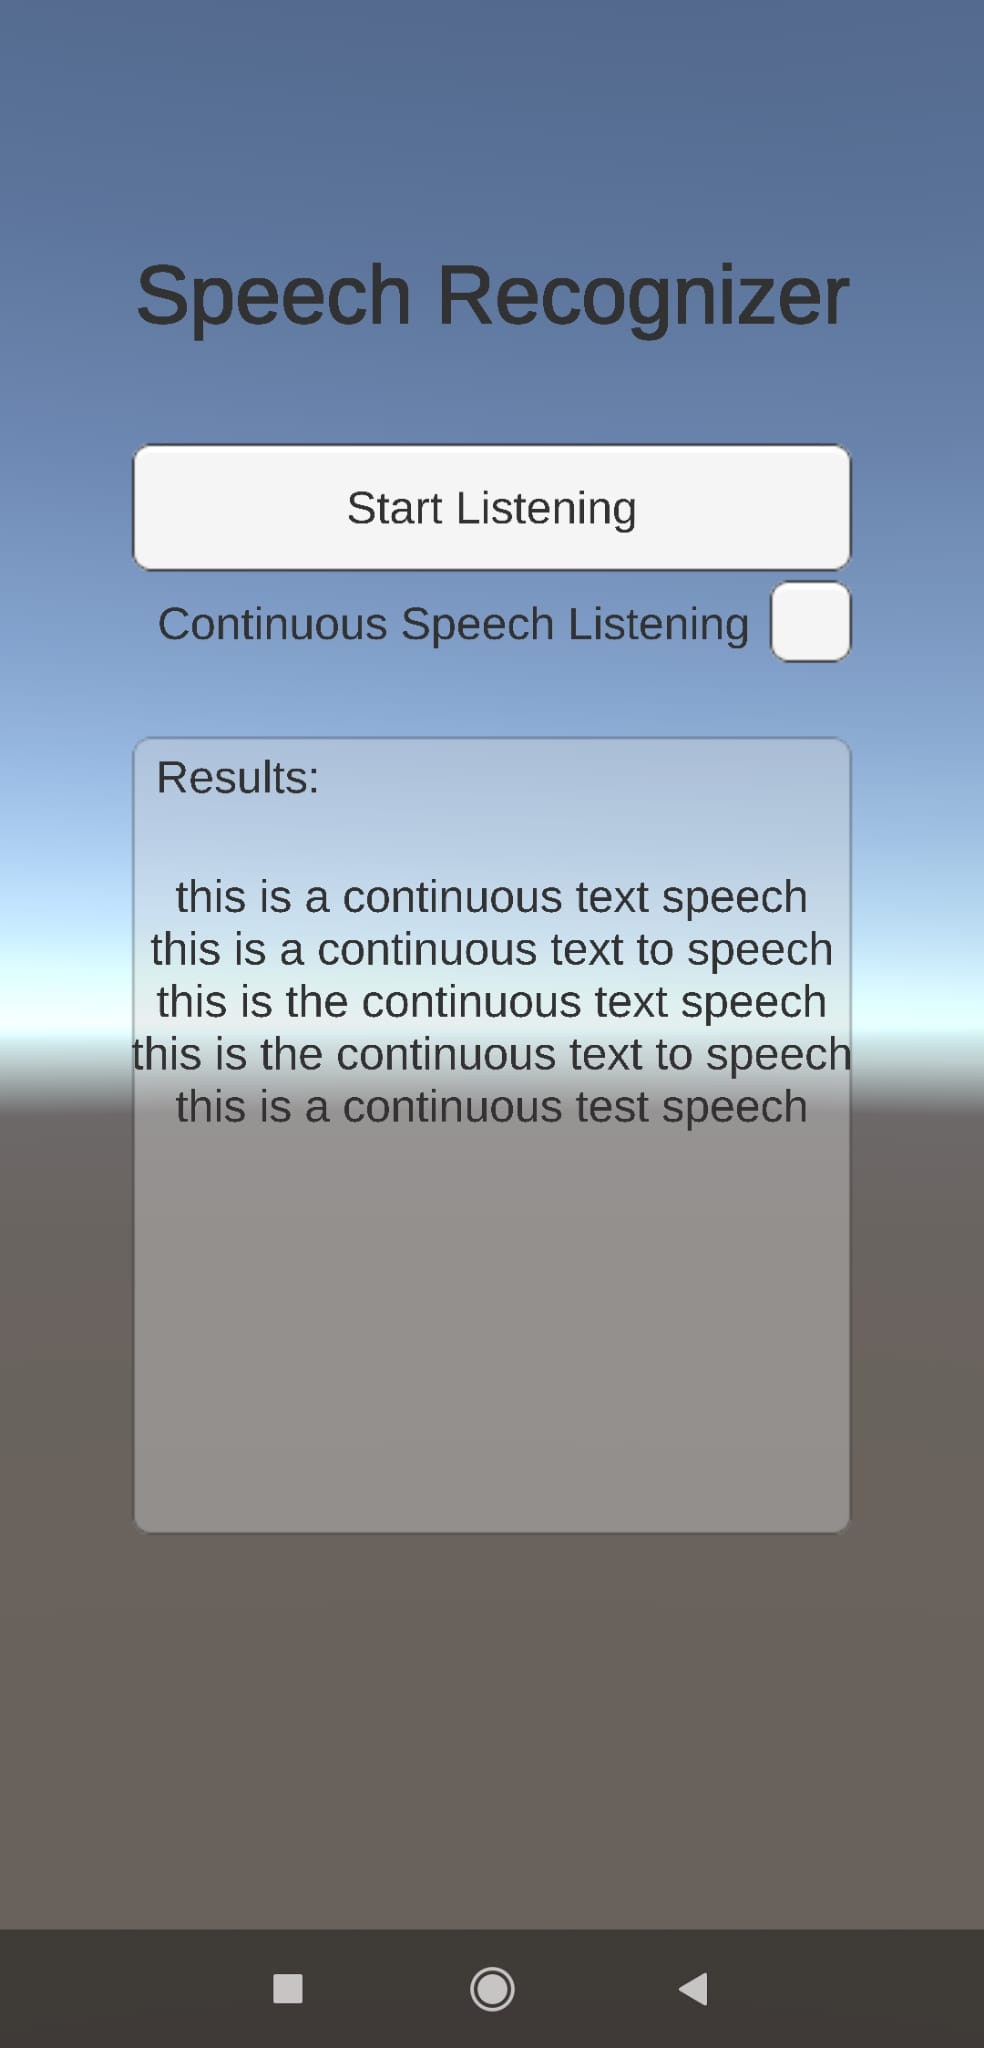
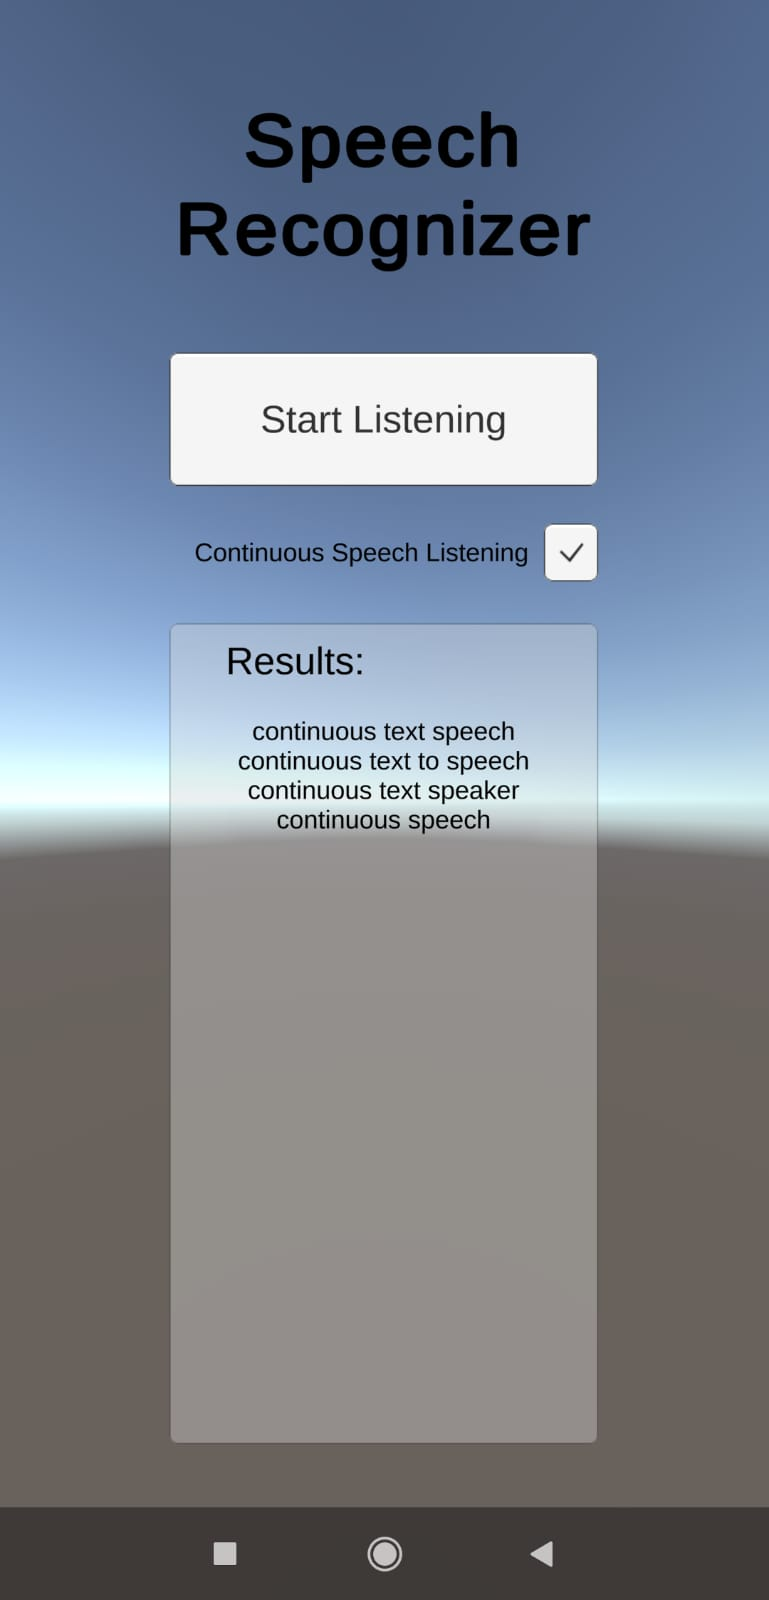
Update Readme

diff --git a/README.md b/README.md
@@ -16,12 +16,12 @@ This repository is divided in 2 parts:
   <img src="SpeechRecognizerImage.jpeg" alt="simple video gif" width="246" height="512"/>
 </p>
 
-*In this image it is possible to see 5 results appearing on the panel after speaking to the device "this is a continuous text speech".*
+*In this image it is possible to see 4 results appearing on the panel after speaking to the device "continuous text speech".*
 
 
 ## How to Use ⚙
 
-If you want to test the app, you can download the APK from [here](https://github.com/EricBatlle/UnityAndroidSpeechRecognizer/releases/download/v1.0/SpeechRecognizer.apk).
+If you want to test the app, you can download the APK from [here](https://github.com/EricBatlle/UnityAndroidSpeechRecognizer/releases/download/v1.1/SpeechRecognizer.apk).
 
 If you want to open the project and check the code, you need to have **Unity** and **AndroidStudio** installed and updated.
 
@@ -31,3 +31,10 @@ If you want to scratch the code:
 **'s project, **open the project**, select **SpeechRecognizer** scene.
 Either inside the unity project or simply dragging the **.cs** classes on your editor, you have to watch on to the classes located on ``UnitySpeechRecognizer/Assets/Scripts``. 
 - If you want to check the **Android Plugin** you can do it opening the solution with **AndroidStudio** or just drag the ``MainActivity.java`` class located on ``UnitySpeechRecognizerPlugin\app\src\main\java\com\example\eric\unityspeechrecognizerplugin``
+
+
+#### Upgrading dependencies 📜
+
+Keep in mind that the actual release ([v1.1](https://github.com/EricBatlle/UnityAndroidSpeechRecognizer/releases/tag/v1.1)) of the plugin works with **AndroidX** dependencies. That means that is targeting **Android 9** (API level 28).
+
+If you want to target older versions I recommend to use the old version of the plugin ([v1.0]((https://github.com/EricBatlle/UnityAndroidSpeechRecognizer/releases/tag/v1.0))) that works with **Android Support v4**. You can download the old plugin source code and APK from [here](https://github.com/EricBatlle/UnityAndroidSpeechRecognizer/releases/tag/v1.0).
